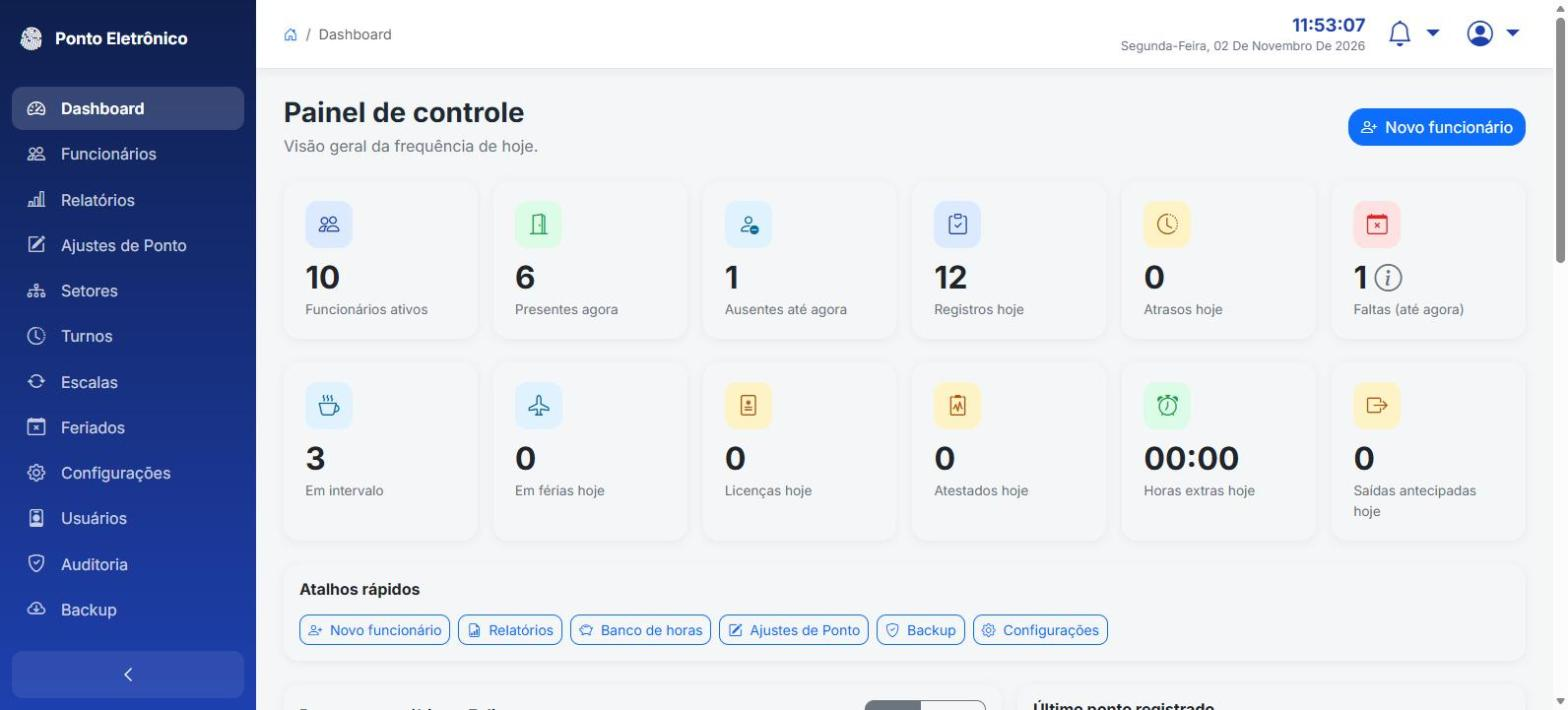
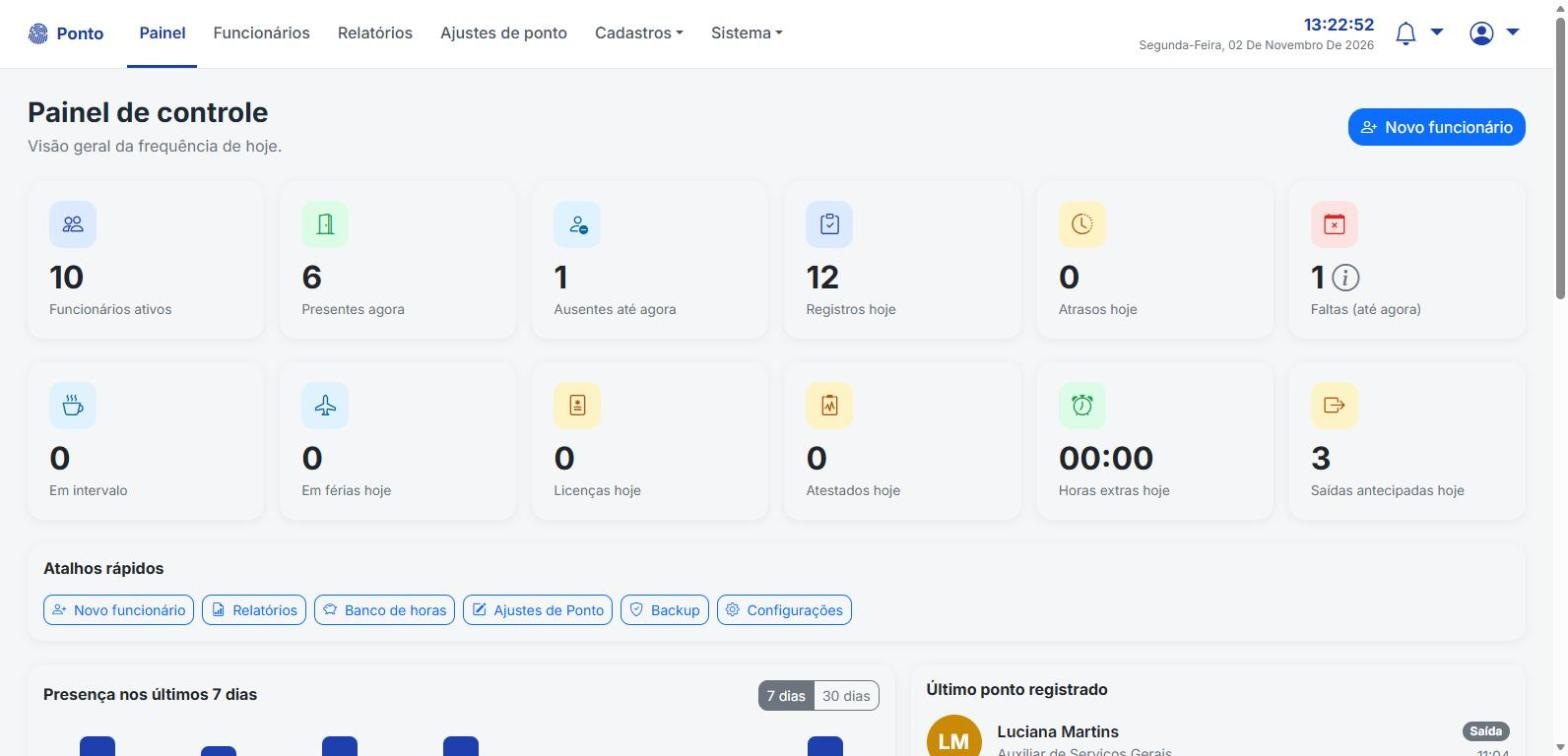
Menu no topo cabe numa linha no celular; prints do README com o menu novo

diff --git a/static/css/admin.css b/static/css/admin.css
@@ -78,14 +78,17 @@ a { text-decoration: none; }
 
 /* Menu recolhido (tablet e celular): as telas viram uma lista abaixo da barra */
 @media (max-width: 991.98px) {
-  .menu-topo-faixa { padding: 8px 16px; min-height: 56px; }
-  .menu-ferramentas { order: 2; }
+  .menu-topo-faixa { padding: 8px 16px; min-height: 56px; gap: 8px 10px; }
+  .menu-ferramentas { order: 2; gap: 8px; }
   .navbar-toggler { order: 3; }
   .navbar-collapse { order: 4; width: 100%; }
   .menu-links .nav-link { padding: 10px 4px !important; border-bottom: none; border-left: 3px solid transparent; padding-left: 12px !important; }
   .menu-links .nav-link.active { border-left-color: var(--bs-primary); }
   .topbar-data-completa { display: none; }
   .pagina-conteudo { padding: 18px 16px; }
+}
+@media (max-width: 575.98px) {
+  .topbar-relogio { display: none; }  /* no celular a hora já aparece na tela do aparelho */
 }
 
 /* ---------- Cards ---------- */
